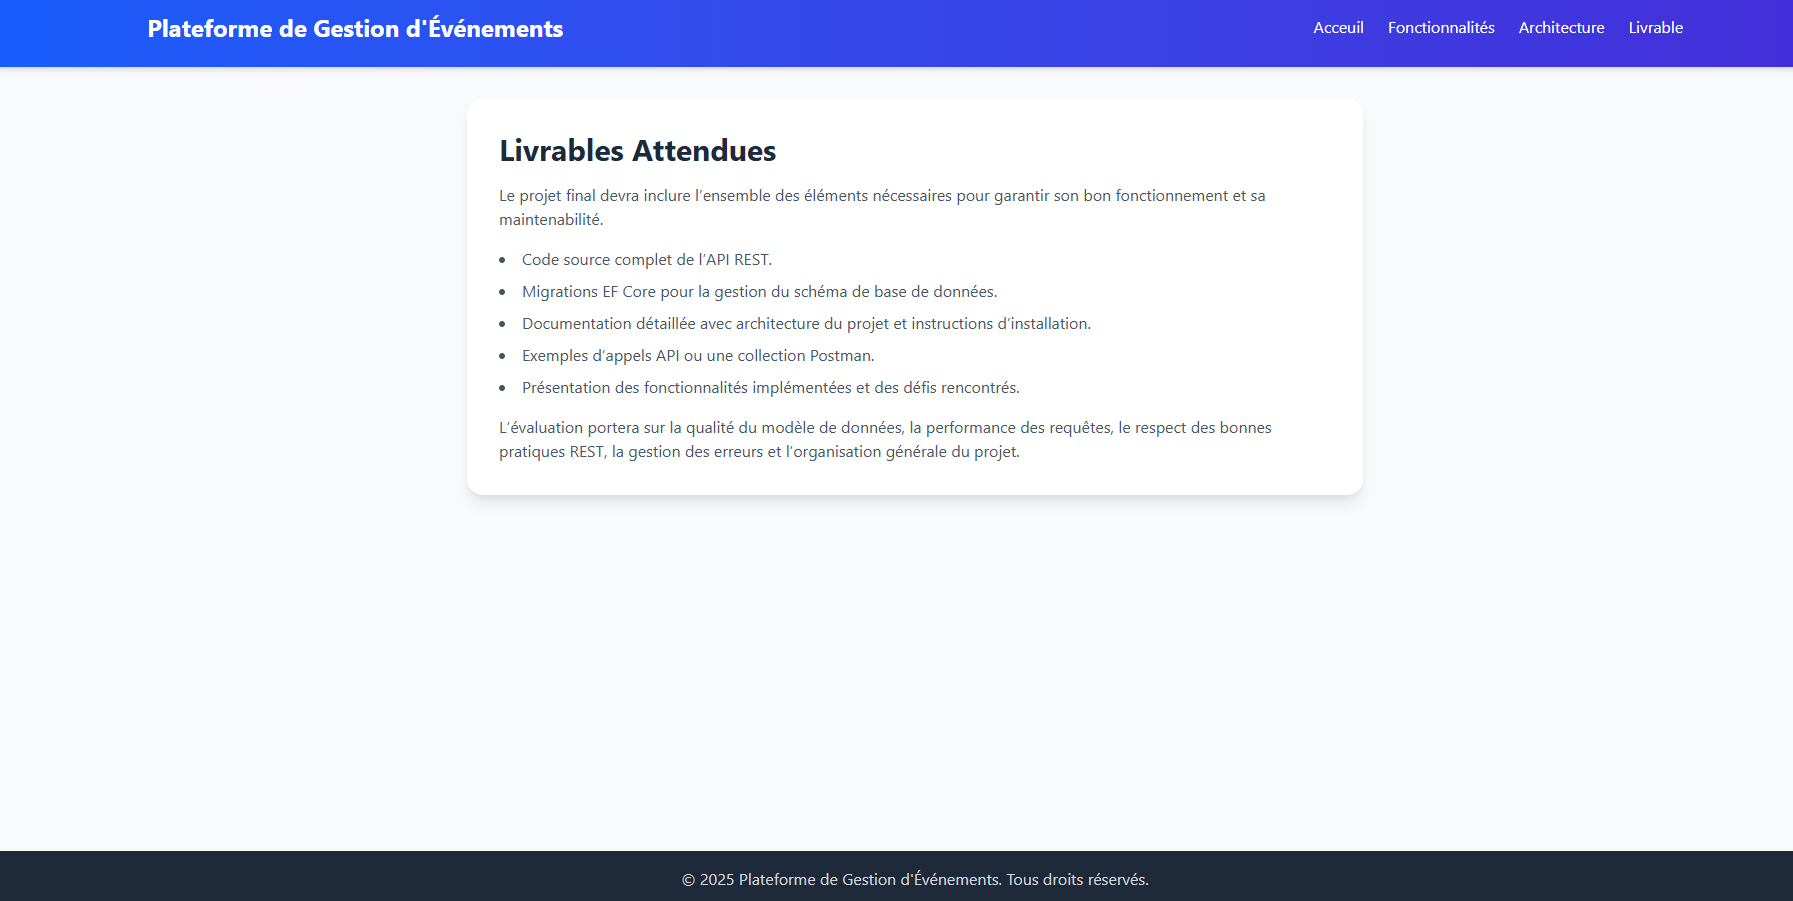
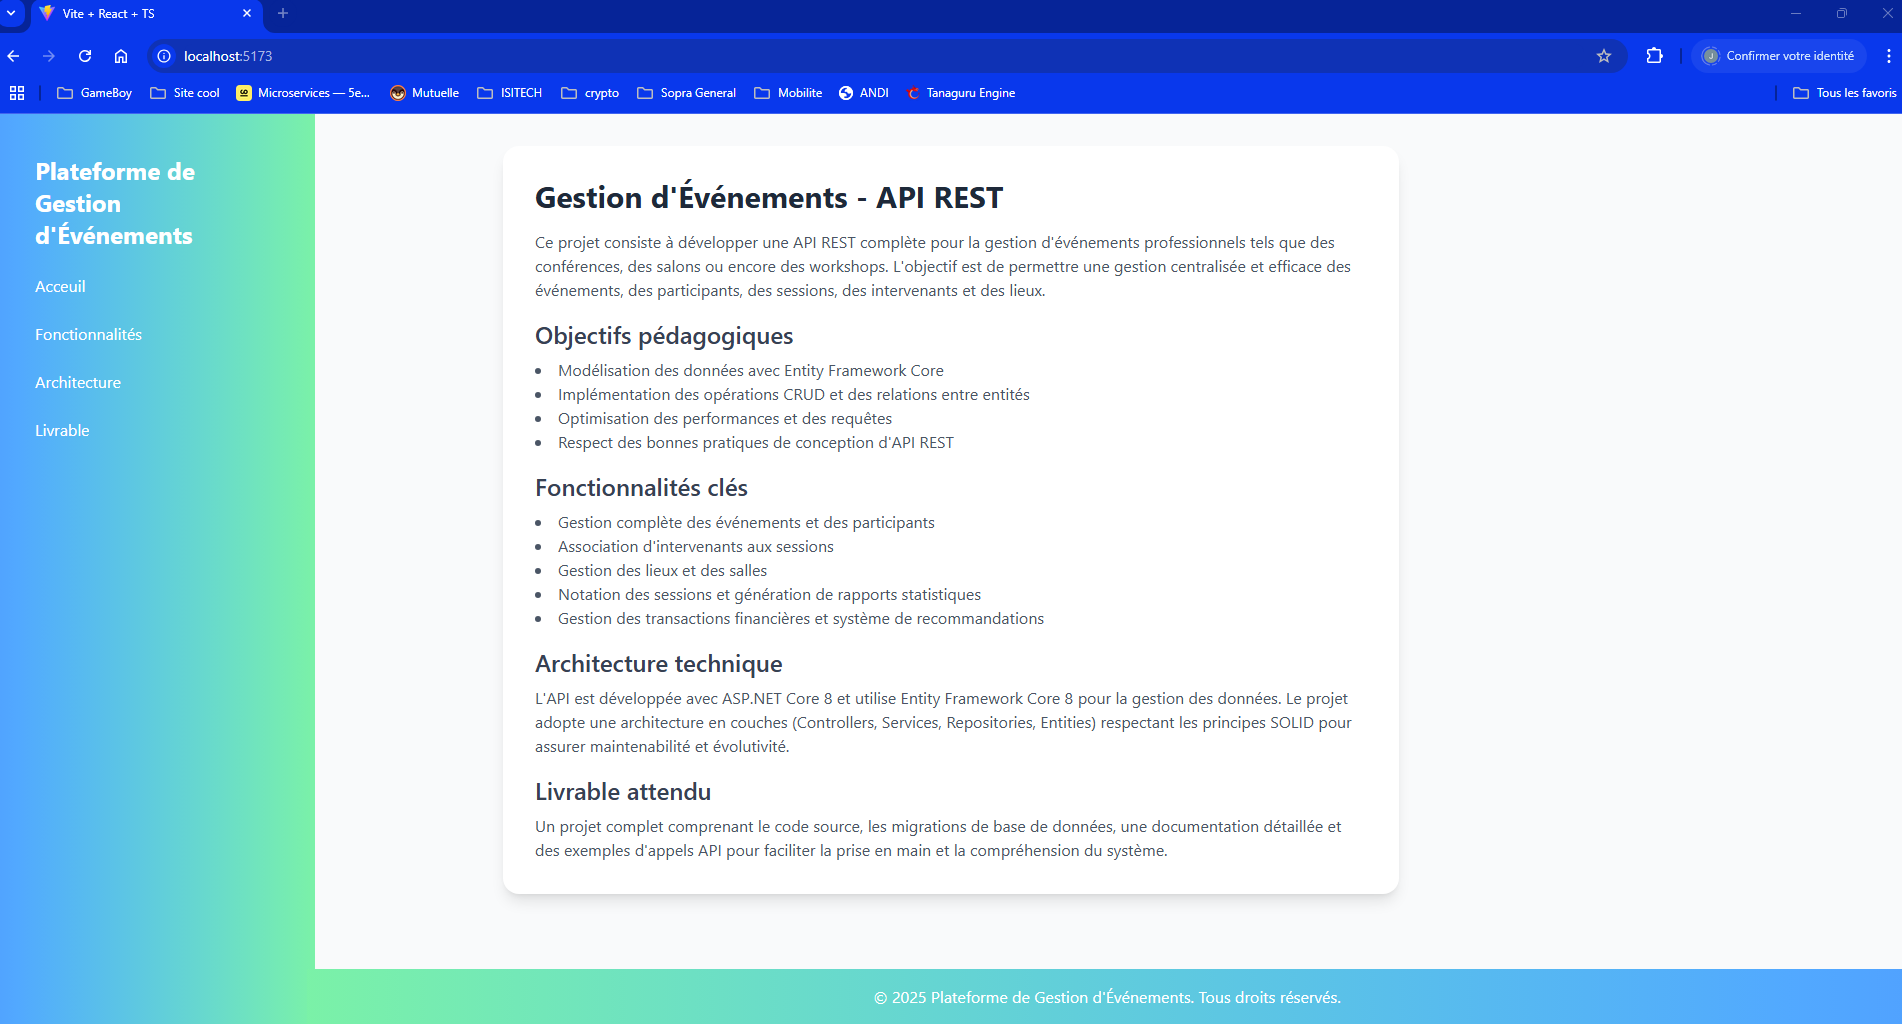
fix: update visuel front

diff --git a/Projets/TP - EXAMS/EventManagementClient/src/Composants/Header.tsx b/Projets/TP - EXAMS/EventManagementClient/src/Composants/Header.tsx
@@ -3,11 +3,11 @@ import { Link } from "react-router-dom";
 
 const Header: React.FC = () => {
     return (
-        <header className="bg-gradient-to-r from-blue-600 to-indigo-700 text-white p-6 shadow-md">
-            <div className="container mx-auto flex justify-between items-center">
-                <h1 className="text-2xl font-bold">Plateforme de Gestion d'Événements</h1>
+        <header className="bg-gradient-to-r from-blue-400 to-green-300 text-white p-6 fixed left-1 top-0 h-full w-1/6 flex flex-col justify-between">
+            <div className="container mx-auto flex flex-col items-start p-4">
+                <h1 className="text-2xl font-bold mb-6">Plateforme de Gestion d'Événements</h1>
                 <nav>
-                    <ul className="flex space-x-6">
+                    <ul className="flex flex-col space-y-6">
                         <li>
                             <Link to="/" className="hover:underline">
                                 Acceuil

diff --git a/Projets/TP - EXAMS/EventManagementClient/src/Composants/Layout.tsx b/Projets/TP - EXAMS/EventManagementClient/src/Composants/Layout.tsx
@@ -7,12 +7,12 @@ interface LayoutProps {
 
 const Layout: React.FC<LayoutProps> = ({ children }) => {
     return (
-        <div className="flex flex-col min-h-screen bg-gray-50">
+        <div className="flex flex-col min-h-screen bg-gray-50 relative">
             <Header />
-            <main className="flex-grow container mx-auto px-4 py-8">
+            <main className="flex-grow container mx-auto px-4 py-8 mb-16">
                 {children}
             </main>
-            <footer className="bg-gray-800 text-gray-300 text-center py-4">
+            <footer className="absolute right-1 bottom-0 w-5/6 bg-gradient-to-r from-green-300 to-blue-400 text-white text-center py-4">
                 © {new Date().getFullYear()} Plateforme de Gestion d'Événements. Tous droits réservés.
             </footer>
         </div>

diff --git a/Projets/TP - EXAMS/EventManagementClient/README.md b/Projets/TP - EXAMS/EventManagementClient/README.md
@@ -75,11 +75,13 @@ Le projet repose sur une architecture en couches respectant les principes SOLID 
 
 ![img.png](img.png)
 
-![img_6.png](img_6.png)
+![img_1.png](img_1.png)
 
-![img_7.png](img_7.png)
+![img_2.png](img_2.png)
 
-![img_5.png](img_5.png)
+![img_3.png](img_3.png)
+
+
 
 
 
